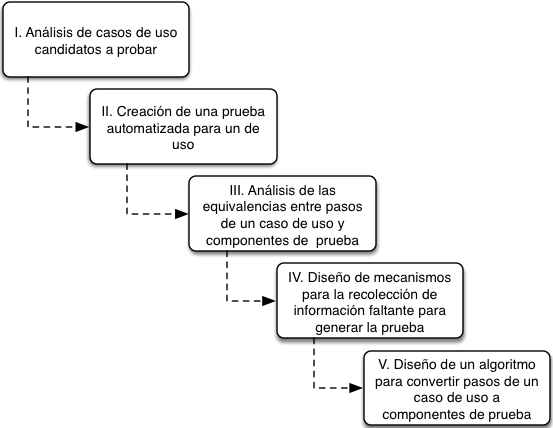
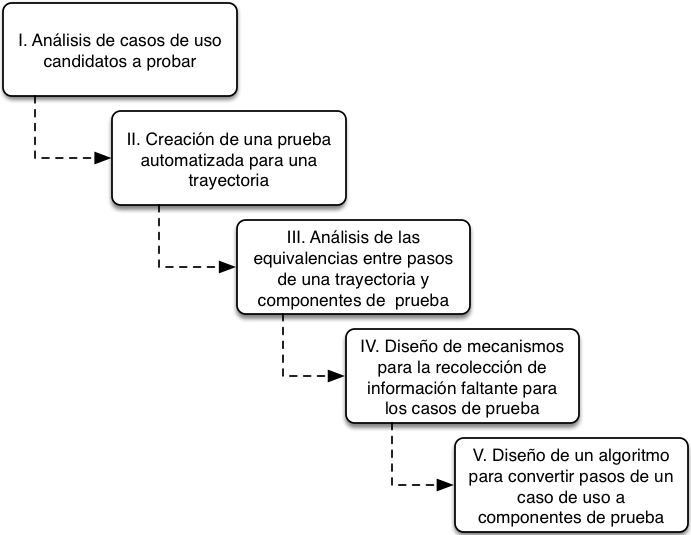
correcciones

diff --git a/ReporteTecnico/AlgoritmosDesarrollados/algoritmosDesarrollados.tex b/ReporteTecnico/AlgoritmosDesarrollados/algoritmosDesarrollados.tex
@@ -1,4 +1,4 @@
-	\subsubsection{Algoritmo Referencias a parámetros}
+	\subsubsection{Descripción del algoritmo Referencias a parámetros}
 	
 	En el {\it Módulo 1  Editor de casos de uso} se implementó un mecanismo que permite seleccionar algunos elementos previamente registrados en medio de una redacción abierta. Este mecanismo surge de la necesidad de poder agilizar el uso de elementos como reglas de negocio o mensajes mientras se redacta un caso de uso, además de mantener consistente la información previniendo futuros cambios en los elementos utilizados.\\
 	
@@ -34,9 +34,10 @@
 	
 	\newpage
 
-	\subsubsection{Algoritmo Generador de casos de prueba}
+	\subsubsection{Descripción del algoritmo Generador de casos de prueba}
 	
-	Cuando se desea generar un conjunto de casos de prueba, se requiere configurar una serie de parámetros que son determinados por la estructura del caso de uso a probar, a este caso de uso lo llamaremos caso de uso base. Para determinar qué parámetros deben ser configurados, el sistema establece una ruta de los casos de uso que deben ser ejecutados para llegar al caso de uso base, en el ejemplo de la figura~\ref{fig:rutaCasosUso} se muestra la ruta necesaria para ejecutar el caso de uso ``Registrar persona''. Se asume que cada caso de uso que forme parte de la ruta debe ser configurado para poder probar el caso de uso base. Cuando esta configuración es realizada, se procede configurar el caso de uso base, parte de esta configuración consiste en la generación automática de las entradas, con base en la especificación de cada atributo y en las reglas de negocio utilizadas. Finalemente, el sistema genera un conjunto de archivos en los que se definen los casos de prueba funcionales, estos archivos son descargados en el equipo cliente para que pueda ejecutar la prueba con JMeter.
+	Cuando se desea generar un conjunto de casos de prueba, se requiere configurar una serie de parámetros que son determinados por la estructura del caso de uso a probar, a este caso de uso se le llamará caso de uso base. Para determinar qué parámetros deben ser configurados, el sistema establece una ruta de los casos de uso que deben ser ejecutados para llegar al caso de uso base, en el ejemplo de la figura~\ref{fig:rutaCasosUso} se muestra la ruta necesaria para ejecutar el caso de uso ``Registrar persona''. Se asume que cada caso de uso que forme parte de la ruta debe ser configurado para poder probar el caso de uso base. \\
+	Cuando esta configuración es realizada, se procede configurar el caso de uso base, parte de esta configuración consiste en la generación automática de las entradas, con base en la especificación de cada atributo y en las reglas de negocio utilizadas. Finalemente, el sistema genera un conjunto de archivos en los que se definen los casos de prueba funcionales, estos archivos son descargados en el equipo cliente para que pueda ejecutar la prueba con JMeter.
 	
 	\IUfigNoId[.8]{images/rutaCasosUso.png}{fig:rutaCasosUso}{Algoritmo Generador de casos de prueba: Buscar ruta}
 	
@@ -44,7 +45,7 @@
 	El algoritmo {\bf Generador de casos de prueba} se encarga de analizar los pasos de cada caso de uso y generar su equivalente en  componentes de prueba y así generar los casos de prueba funcionales que serán descargados al cliente. A continuación se explica el funcionamiento:\\
 		
 	\begin{enumerate}
-		\item Para iniciar el algoritmo es necesario especificar el conjunto de pasos correspondientes a la trayectoria principal y el paso a analizar, a este último lo llamaremos {\it paso A}.
+		\item Para iniciar el algoritmo es necesario especificar el conjunto de pasos correspondientes a la trayectoria principal y el paso a analizar, a este último se le llamará {\it paso A}.
 		\item Se determina el tipo del {\it paso A}, los tipos pueden ser:
 		\begin{itemize}
 			\item Oprimir botón
@@ -53,13 +54,23 @@
 			\item Validar regla de negocio
 		\end{itemize}
 		
-		\item Se calcula cuál es el siguiente paso, que a partir de ahora llamaremos {\it paso B}.
+		Para determinar el tipo del paso, se considera quién realiza el paso, qué verbo utiliza y qué referencias tiene.
+		
+		\item Se calcula cuál es el siguiente paso, que a partir de ahora se le llamará {\it paso B}.
 		
 		\item Si el {\it paso A} es de tipo ``Oprimir botón'' se deben considerar los siguientes casos:
 		
 		\begin{enumerate}
-			\item Si el {\it paso B} es de tipo ``Validar regla de negocio'', se deben crear una serie de peticiones HTTP con la indicación de que el conjunto de entradas a utilizar, está definido por la regla de negocio utilizada.\\
-			 Por ejemplo, si el {\it paso B} utiliza una regla de negocio de tipo ``Datos obligatorios'', el algoritmo debe generar un conjunto de peticiones HTTP con entradas que permitan validar la regla de negocio, como se muestra en la figura~\ref{fig:entradasDatosObligatorios}. Para probar estas validaciones se crea también una aserción para cada petición, esta aserción se genera con base en la trayectoria alternativa especificada en el paso.
+			\item Si el {\it paso B} es de tipo ``Validar regla de negocio'', se deben crear una serie de peticiones HTTP con la indicación de que el conjunto de entradas a utilizar, está definido por la regla de negocio empleada.Cada tipo de regla de negocio establece un funcionamiento particular:
+	 		\begin{itemize}
+	 			\item {\bf Datos obligatorios.} Indica que deben generarse tantas peticiones HTTP, como entradas requeridas tenga el caso de uso. Cada petición HTTP especifica un conjunto de entradas en el que una de ellas se omite para validar el correcto funcionamiento de la aplicación. Por ejemplo, para un caso de uso con 2 entradas requeridas, esta regla de negocio generaría los escenarios que se muestran en la imagen~\ref{fig:entradasDatosObligatorios}.\\
+	 			\item {\bf Verificación de catálogos.} Indica que se debe generar una petición JDBC que permita extraear información mínima para el sistema, con el objetivo de anticipar si es que el sistema debe operar normalmente o debe alertar sobre la falta de información necesaria para operar.\\
+	 			\item {\bf Unicidad de elementos.} Indica que se debe generar una petición JDBC que permita extraer la información de algún registro en particular, con el objetivo de anticipar si es que el sistema debe alertar sobre un posible duplicado u operar normalmente.\\
+				\item {\bf Tipo de dato correcto.} Indica que deben generarse tantas peticiones HTTP, como entradas de tipo entero, fecha, booleano o flotantes tenga el caso de uso. Cada petición especifica un conjunto de entradas en el que cada una de ellas se genera con un tipo incorrecto para validar el correcto funcionamiento de la aplicación.\\
+				\item {\bf Longitud correcta.} Indica que deben generarse tantas peticiones HTTP, como entradas de tipo cadena, entero o flotante tenga el caso de uso. Cada petición HTTP especifica un conjunto de entradas en el que cada una de ellas se genera con más caracteres de los permitidos para validar el correcto funcionamiento de la aplicación.\\
+	 		\end{itemize}
+			
+			Inicialmente se había planteado considerar reglas de negocio referentes a operaciones aritméticas, sin embargo no se consideraron debido a que para lograr comprender un tipo de regla de negocio como este se requería más tiempo del establecido para desarrollar el módulo.
 			
 			\IUfigNoId[.8]{images/entradasDatosObligatorios.png}{fig:entradasDatosObligatorios}{Algoritmo Generador de casos de prueba: Datos obligatorios}
 			

diff --git a/ReporteTecnico/Metodologia/generador.tex b/ReporteTecnico/Metodologia/generador.tex
@@ -2,30 +2,30 @@
 	 	\IUfigNoId[.7]{images/metodologiaGenerador.png}{fig:metodologiaGenerador}{Metodología: Generador de casos de prueba}
 	
 	
-\subsubsection{I. Análisis de casos de uso candidatos a probar}
+\subsubsection{I. Análisis de las trayectorias a probar}
 
-	Dado que el comportamiento de un caso de uso puede modelar un conjunto muy amplio de escenarios, se realizó un análisis de diferentes casos de uso, buscando comportamientos en común y altamente repetitivos.\\
+	Dado que el comportamiento de un caso de uso puede modelar un conjunto muy amplio de escenarios, se realizó un análisis de diferentes trayectorias, buscando comportamientos en común y altamente repetitivos.\\
 	
-	El resultado de este análisis permitió definir un modelo general de los casos de uso candidatos a ser convertidos a casos de prueba funcionales. Posteriormente se analizaron nuevamente diferentes casos de uso, pero esta vez basando la búsqueda en el modelo obtenido del análisis anterior, esto con la finalidad de identificar claramente qué casos de uso realmente eran candidatos.\\ El modelo obtenido puede consultarse en la documentación de análisis anexada a este documento.
+	El resultado de este análisis permitió definir un modelo general de trayecotiras candidatas para la creación de casos de prueba funcionales. Posteriormente se analizaron nuevamente diferentes trayectorias, pero esta vez basando la búsqueda en el modelo obtenido del análisis anterior, esto con la finalidad de identificar claramente qué casos de uso realmente eran candidatos y con ello definir un vector de pruebas.\\ El modelo obtenido puede consultarse en la documentación de análisis que se encuentra como anexo a este documento.
 	
 	
-\subsubsection{II. Creación de una prueba automatizada para un de uso}
+\subsubsection{II. Creación de una prueba automatizada para una trayectoria}
 
-	Con un espacio de búsqueda reducido, se escogió un caso de uso para utilizarlo como base para la generación de casos de prueba muestra. Se buscó que el caso de uso presentara la mayor cantidad de escenarios para así observar los componentes de prueba necesarios para cada uno de ellos. Este ejercicio reforzó el análisis realizado durante el primer icremento para determinar la información necesaria para construir la prueba automatizada y permitió definir claramente qué información no aportaba el editor para la construcción de la prueba.
+	Con un espacio de búsqueda reducido, se escogió la trayectoria de un caso de uso para utilizarlo como base para la generación de casos de prueba muestra. Se buscó que el caso de uso presentara la mayor cantidad de escenarios para así observar los componentes de prueba necesarios para cada uno de ellos. Este ejercicio reforzó el análisis realizado durante el primer icremento para determinar la información necesaria para construir la prueba automatizada y permitió definir claramente qué información no aportaba el editor para la construcción de la prueba.
 	
 \subsubsection{III. Análisis de las equivalencias entre pasos de un caso de uso y componentes de  prueba}
 
 	Con la prueba creada, el siguiente paso consistió en analizar a detalle la relación existente entre los pasos de una trayectoria y los componentes de prueba. Para ello se estudió cada paso y se establecieron diferentes categorias, a las cuales a su vez se les asocio un conjunto de componentes de prueba, por ejemplo, para un paso que consiste en oprimir un botón, se le asocio una petición HTTP.
 	
 	
-	\subsubsection{IV. Diseño de mecanismos para la recolección de información faltante para generar la prueba}
+	\subsubsection{IV. Diseño de mecanismos para la recolección de información faltante para los casos de prueba}
 
 	La siguiente tarea consistió en establecer la manera en que la información faltante sería solicitada al usuario, entre los datos que el editor de casos de uso no aportaba se encuentran por ejemplo los nombres de los input de los formularios. Por otro lado, para el caso de los datos de entrada, se diseñaron mecanismos para su generación automática, con base en la especificación registrada en el editor de casos de uso.\\
 	 Los mecanismos utilizados para solicitar información no resultaron triviales debido a que gran parte de la información depende de la especificación del caso de uso, es por ello que su comportamiento es completamente dinámico.
 	
 
-	\subsubsection{V. Diseño de un algoritmo para convertir pasos de un caso de uso a componentes de prueba}
+	\subsubsection{V. Diseño de un algoritmo para convertir pasos de una trayectoria a componentes de prueba}
 	
 	Finalmente, con el análisis de las equivalencias entre pasos y componentes de prueba, se prosiguó a diseñar un algoritmo que permitiera transformar los pasos de una trayectoria a casos de prueba funcionales.\\
-	Inicialmente se propuso realizar una traducción lineal de los pasos, es decir, encontrar un paso y en ese mismo momento transformarlo a componentes de prueba, sin embargo con esa idea no resultó posible generar la prueba de forma automática pues la transformación dependía del contexto. En el \cdtRef{chp:algoritmosDesarrollados}{capítulo 5} se muestra a detalle el funcionamiento del algoritmo.
+	Inicialmente se propuso realizar una traducción lineal de los pasos, es decir, encontrar un paso y en ese mismo momento transformarlo a componentes de prueba, sin embargo con esa idea no resultó posible generar la prueba de forma automática pues la transformación dependía del contexto. Debido a esto, se implementó un algoritmo que permitiera realizar esta conversión. En el \cdtRef{chp:algoritmosDesarrollados}{capítulo 5} se muestra a detalle el funcionamiento del algoritmo. 
 	

diff --git a/ReporteTecnico/Metodologia/editor.tex b/ReporteTecnico/Metodologia/editor.tex
@@ -3,10 +3,15 @@
 	
 	
 \subsubsection{I. Análisis de diferentes documentos de análisis}
-	Se identificó que gran parte de las pruebas funcionales de un sistema se ecuentran basadas en la especificación de casos de uso del sistema a probar. Se observó que parte de estas pruebas eran altamente repetitivas, por ejemplo, si la trayectoria describía que el sistema debía validar que los datos marcados como obligatorios fueran ingresados, era  necesario analizar cada uno de los escenarios posibles para ese comportamiento y para realizar ese análisis se debía acudir a la especificación de casos de uso. Con lo anterior se limitó el objetivo a asistir el proceso de prueba de un sistema utilizando la especificación de casos de uso.
-	
-	Posteriormente se analizaron documentos de análisis de diferentes sistemas, con el objetivo de conocer cómo se estructuraban los casos de uso y qué información era necesaria para su construcción.
-	
+	Dado que las pruebas funcionales de un sistema pueden basarse en la especificación de casos de uso, se realizó un estudio de la documentación de casos de uso de diferentes sistemas, con e objetivo de conocer cómo se estructuraban y qué información requerían. El resultado de esta actividad permitió establecer la información con la que PRISMA operaría:
+	\begin{itemize}
+		\item Reglas de negocio
+		\item Mensajes
+		\item Actores
+		\item Términos del glosario
+		\item Entidades
+		\item Pantallas
+	\end{itemize}
 	
 \subsubsection{II. Análisis de la información necesaria para crear una prueba automatizada}
 		
@@ -15,11 +20,11 @@
 	Los resultados obtenidos fueron positivos, ya que gran parte de la información requerida para construir un caso de prueba funcional, coincidía con la información necesaria para la construcción de un caso de uso.
 
 
-\subsubsection{III. Creación de una prueba automatizada como base para la experimentación}
+\subsubsection{III. Construcción de una prueba automatizada como base para la experimentación}
 
 	Con los resultados obtenidos anteriormente, se intentó realizar una prueba automatizada, utilizando exclusivamente la información proporcionada por la especificación de casos de uso, el resultado de este ejercicio mostró que aunque la información que proporciona este documento es bastante útil, no es suficiente para la construcción de la prueba.
 		
-\subsubsection{IV. Implementación de una prueba automatizada a través de una fuente externa}
+\subsubsection{IV. Generación de una prueba automatizada con base en una fuente de información externa}
 	
 	Debido a que la prueba automatizada creada anteriormente fue construida directamente sobre una herramienta de pruebas, se realizó un ensayo para demostrar que era posible crearla de forma semiautomática desde una herramienta externa. Para ello se implementó un breve sistema, en el cual se solicitaba información referente a la prueba, para posteriormente utilizarla y generar la prueba automatizada. Los resultados fueron satisfactorios, se demostró que era posible generar pruebas desde una herramienta externa para una posible ejecución con alguna herramienta de pruebas.
 		
@@ -29,6 +34,6 @@
 			
 \subsubsection{VI. Diseño de mecanismos para relacionar elementos}
 
-	Como se mencionó anteriormente, un caso de uso se encuentra interrelacionado con una gran cantidad de elementos incluidos en el documento de análisis, por lo que resultó importante establecer mecanismos que otorgaran usabilidad al sistema. En general, este mecanismo consiste en poder seleccionar elementos previamente registrados en medio de una redacción abierta. En el \cdtRef{chp:algoritmosDesarrollados}{capítulo 5} se muestra a detalle este funcionamiento.
+	Como se mencionó anteriormente, un caso de uso se encuentra interrelacionado con una gran cantidad de elementos incluidos en el documento de análisis, por lo que resultó importante establecer mecanismos que elevaran la usabilidad al sistema. En general, este mecanismo consiste en poder seleccionar elementos previamente registrados en medio de una redacción abierta. En el \cdtRef{chp:algoritmosDesarrollados}{capítulo 5} se muestra a detalle este funcionamiento.
 
 	 

diff --git a/ReporteTecnico/Antecedentes/etapaPruebas.tex b/ReporteTecnico/Antecedentes/etapaPruebas.tex
@@ -7,10 +7,11 @@ La etapa de {\it Pruebas} consiste en verificar y validar que el software se aju
 	\item {\bf Pruebas de componentes.} También conocidas como pruebas unitarias, buscan defectos en módulos o programas en un ambiente aislado del resto del sistema.
 	\item {\bf Pruebas de integración.} Buscan defectos entre el funcionamiento de 2 o más componentes.
 	\item {\bf Pruebas de sistema.} Buscan defectos desde un punto de vista integral.
-	\item {\bf Pruebas de aceptación.} No busca encontrar defectos, sino otorgar confianza en el sistema frente a los clientes.
+	\item {\bf Pruebas de aceptación.} No buscan encontrar defectos, sino otorgar confianza en el sistema frente a los clientes.
 \end{itemize}
 
-	También es posible clasificar las pruebas según su objetivo \cite{istqb2011}, esta clasificación no es excluyende con la mostrada anteriormente, de hecho, los tipos que se presentan a continuación pueden ubicarse en cualquiera de los niveles anteriores:
+\vspace{1cm}
+	También es posible clasificar las pruebas según su objetivo \cite{istqb2011}, esta clasificación no es excluyende con la mostrada anteriormente, de hecho, los tipos que se presentan a continuación pueden ubicarse en cualquiera de los niveles anteriores.
 
 \begin{itemize}
 	\item {\bf Pruebas funcionales.} Su objetivo es demostrar que el sistema se ajusta a los requerimientos establecidos. Son pruebas referentes a ``Qué hace el sistema'' y pueden aplicarse en cualquier nivel.

diff --git a/ReporteTecnico/Introduccion/objetivos.tex b/ReporteTecnico/Introduccion/objetivos.tex
@@ -4,8 +4,13 @@
 
 \subsection{Objetivos específicos}
 
-	\begin{itemize}
+	Los objetivos específicos establecidos para el trabajo son:
+	
+	\begin{enumerate}
 		\item Desarrollar un módulo que permita registrar: entidades, especificación de los atributos,  reglas de negocio, interfaces, mensajes, perfiles de usuario y trayectorias de casos de uso. 
 		\item Generar el documento de análisis de un sistema, considerando el paradigma orientado a objetos con base en la información obtenida en el módulo de captura.
 		\item Generar propuestas de casos de prueba funcionales de catálogos simples en un formato estándar para su uso con una herramienta de ejecución de pruebas con base en la información recolectada en el módulo de captura.
-	\end{itemize}
+	\end{enumerate}
+	
+	
+	Todos los objetivos fueron alcanzados satisfactoriamente, en el \cdtRef{chp:algoritmosDesarrollados}{capítulo 4} se detallan los módulos desarrollados que permitieron alcanzar cada objetivo.

diff --git a/ReporteTecnico/Metodologia/metodologia.tex b/ReporteTecnico/Metodologia/metodologia.tex
@@ -1,15 +1,16 @@
+	En este capítulo se describen las actividades realizadas a lo largo del desarrollo del trabajo que permitieron alcanzar los objetivos planteados. PRISMA se dividió en dos incrementos:
 	La construcción del prototipo se dividió en dos incrementos:
 	\begin{enumerate}
-		\item Editor de casos de uso
-		\item Generador de casos de prueba
+		\item Incremento 1. Editor de casos de uso
+		\item Incremento 2. Generador de casos de prueba
 	\end{enumerate}
 	
 	 En este capítulo se describen las principales actividades realizadas para cada uno de ellos.
 	
-	\section{Editor de casos de uso}
+	\section{Incremento 1. Editor de casos de uso}
 	\cfinput{Metodologia/editor}
 	
-	\section{Generador de casos de prueba}
+	\section{Incremento 2. Generador de casos de prueba}
 	\cfinput{Metodologia/generador}
 	
 

diff --git a/ReporteTecnico/Antecedentes/antecedentes.tex b/ReporteTecnico/Antecedentes/antecedentes.tex
@@ -7,9 +7,9 @@ Un proceso de software es un conjunto coherente de actividades que se llevan a c
 \end{itemize}
 
 
-Si se considera que el costo total del desarrollo de un sistema de software es de 100 unidades de costo, la figura~ref{fig:costos}  muestra cómo se gastan estas en las diferentes actividades del proceso \cite{sommerville1992software}. 
+Si se considera que el costo total del desarrollo de un sistema de software es de 100 unidades de costo, la figura~\ref{fig:costos}  muestra cómo se gastan estas en las diferentes actividades del proceso \cite{sommerville1992software}. 
 
-	 \IUfigNoId[.7]{images/costosProceso.png}{fig:costos}{Distribución de costos}
+	 \IUfigNoId[.8]{images/costosProceso.png}{fig:costos}{Distribución de costos}
 
 \section{Etapa de Pruebas}
 \cfinput{Antecedentes/etapaPruebas}

diff --git a/ReporteTecnico/ModulosDesarrollados/editorCasosUso.tex b/ReporteTecnico/ModulosDesarrollados/editorCasosUso.tex
@@ -7,15 +7,13 @@ En la figura ~\ref{fig:submodulosEditor} se muestran los submódulos que compone
 \IMfig[.5]{images/submodulosEditor}{fig:submodulosEditor}{Módulo 1. Editor de casos de uso}
 
 \subsubsection{Proyectos}
-	Este submódulo permite:
+	Un proyecto, sirve para organizar los diferentes elementos que se gestionan a través del editor de casos de uso. Cuando un proyecto es registrado, 
 	
 	\begin{itemize}
 		\item Registrar, modificar y elminar proyectos.(Administrador)
 		\item Seleccionar el personal participante para el proyecto. (Líder de proyecto)
 	\end{itemize}
-	
-	Una vez registrado el proyecto es posible gestionar reglas de negocio, mensajes, términos del glosario, actores y entidades. 
-		
+			
 \subsubsection{Módulos}
 	Este módulo permite:
 	\begin{itemize}

diff --git a/ReporteTecnico/Antecedentes/etapaAnalisis.tex b/ReporteTecnico/Antecedentes/etapaAnalisis.tex
@@ -21,8 +21,6 @@ Algunas de las herramientas que se utilizan para realizar la documentación de a
 \end{longtable}%
 
 
-Debido a las carencias de cada herramienta, las organizaciones recurren a una suite de herramientas para documentar sus sistemas. 
-
 
 
 

diff --git a/ReporteTecnico/ModulosDesarrollados/modulosDesarrollados.tex b/ReporteTecnico/ModulosDesarrollados/modulosDesarrollados.tex
@@ -1,4 +1,3 @@
-
 \section{Módulo 1. Editor de casos de uso}
 \cfinput{ModulosDesarrollados/editorCasosUso}
 
